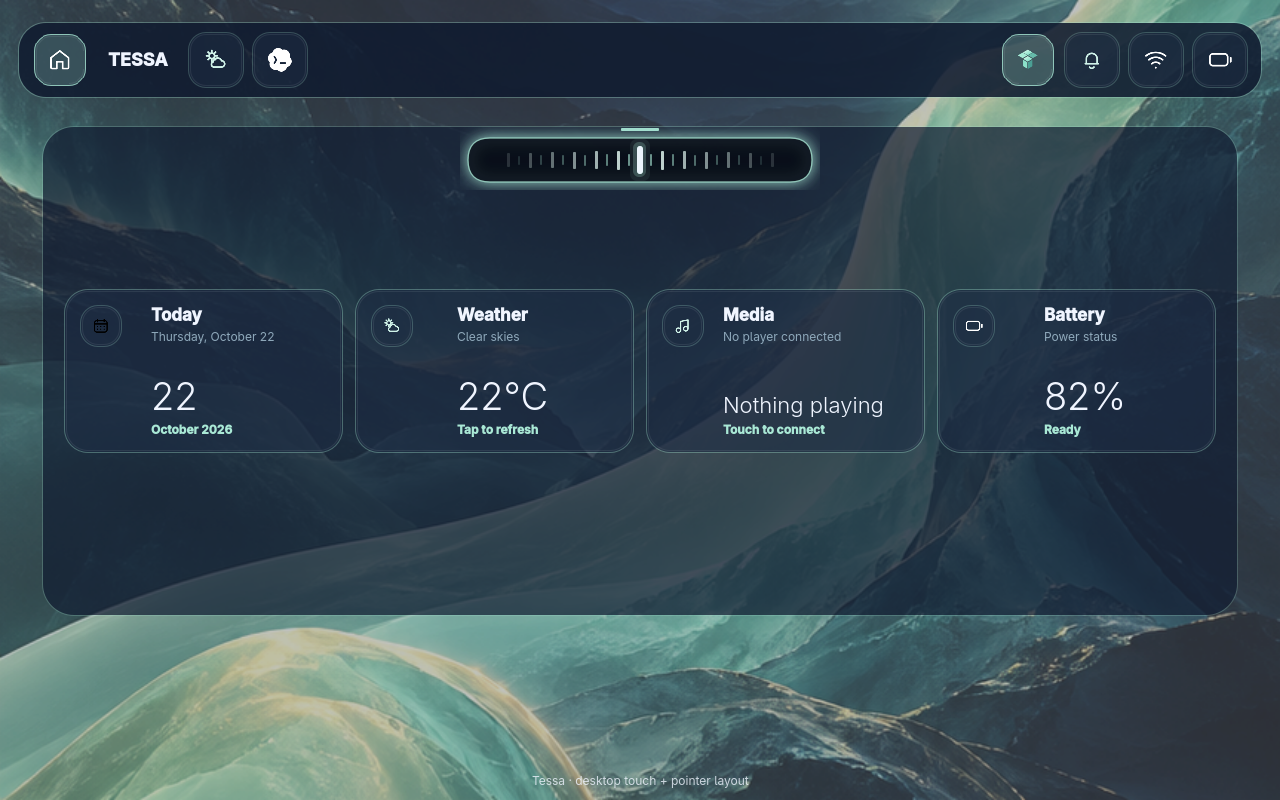
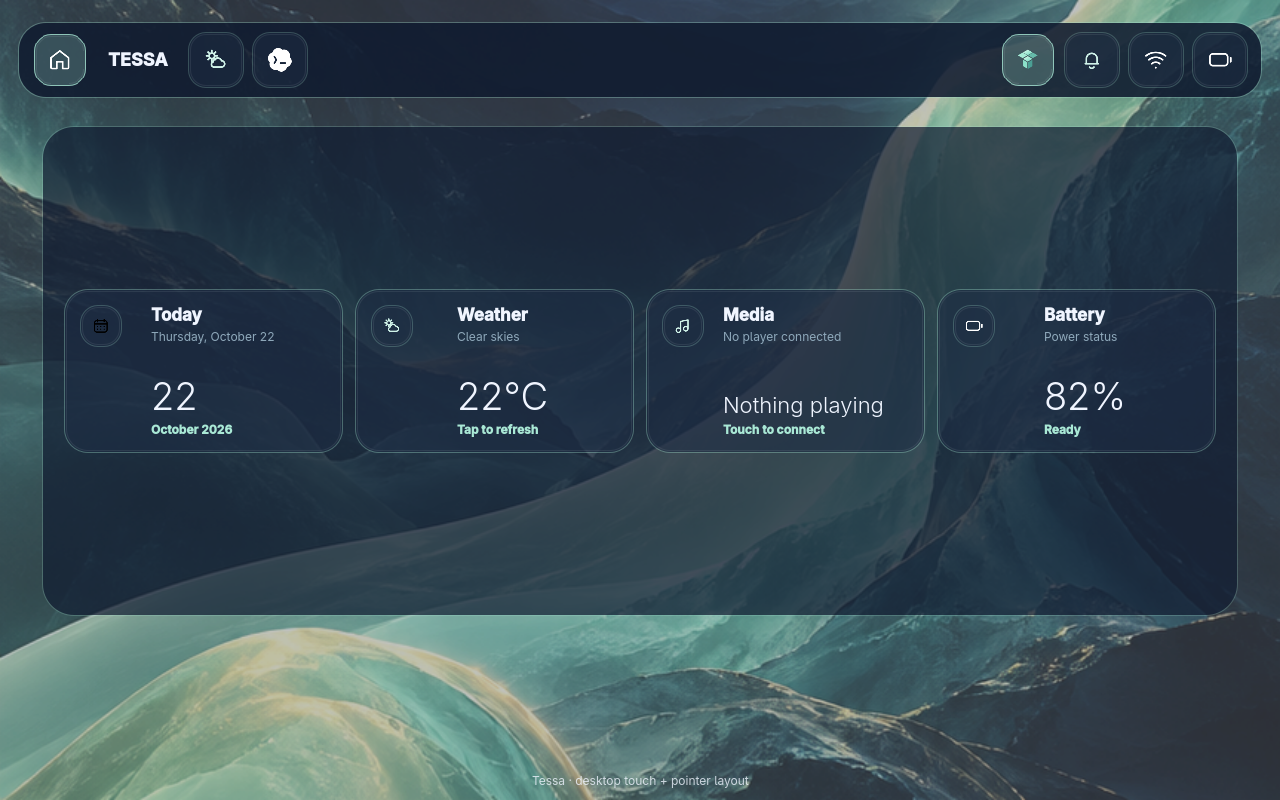
Use keyboard navigation for desktop scrolling

Changed region(s): [[0.3438, 0.1562, 0.6562, 0.25]]

diff --git a/shell/shell.qml b/shell/shell.qml
@@ -971,7 +971,10 @@ ShellRoot {
                 id: wheelPanel
                 screen: surface.modelData
                 readonly property string placement: ["left", "right"].indexOf(shellPreferences.wheelStyle) >= 0 ? shellPreferences.wheelStyle : "bottom"
-                visible: surface.tapeActive && !panel.expanded && !tapeControl.expanded
+                // Desktop keeps the native scrolling workspace, but uses the
+                // Hyprland Super+[ / Super+] bindings instead of an overlay
+                // slider. Touch layouts retain the edge wheel.
+                visible: surface.mode !== "desktop" && surface.tapeActive && !panel.expanded && !tapeControl.expanded
                 anchors.bottom: placement === "bottom"
                 anchors.left: placement === "left"
                 anchors.right: placement === "right"

diff --git a/tests/test_workflows.py b/tests/test_workflows.py
@@ -138,6 +138,7 @@ class Workflows(unittest.TestCase):
         self.assertIn('property bool touchMode: false', status_icon)
         self.assertIn('Layout.preferredWidth: touchMode ? touchSlot', status_icon)
         self.assertIn('showSettings: surface.mode === "desktop" && surface.modelData.width >= 560', shell)
+        self.assertIn('visible: surface.mode !== "desktop" && surface.tapeActive && !panel.expanded && !tapeControl.expanded', shell)
         self.assertNotIn('id: homeHeader', shell)
         self.assertIn('anchors.topMargin: surface.mode === "desktop" ? 24 : 92', shell)
 
